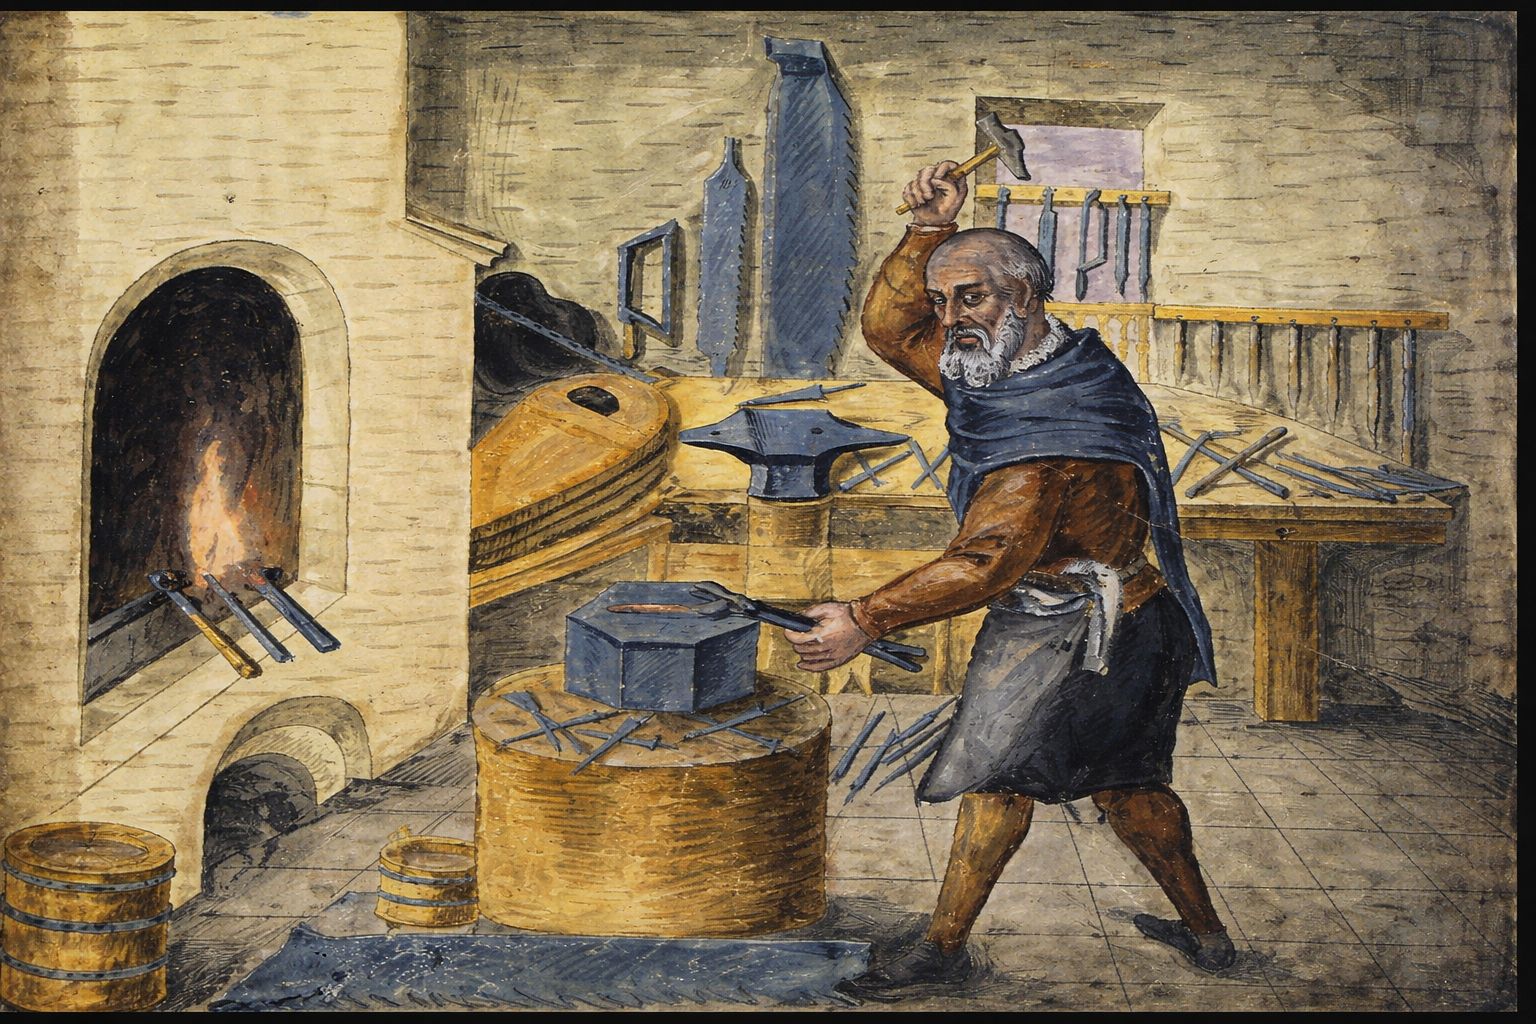
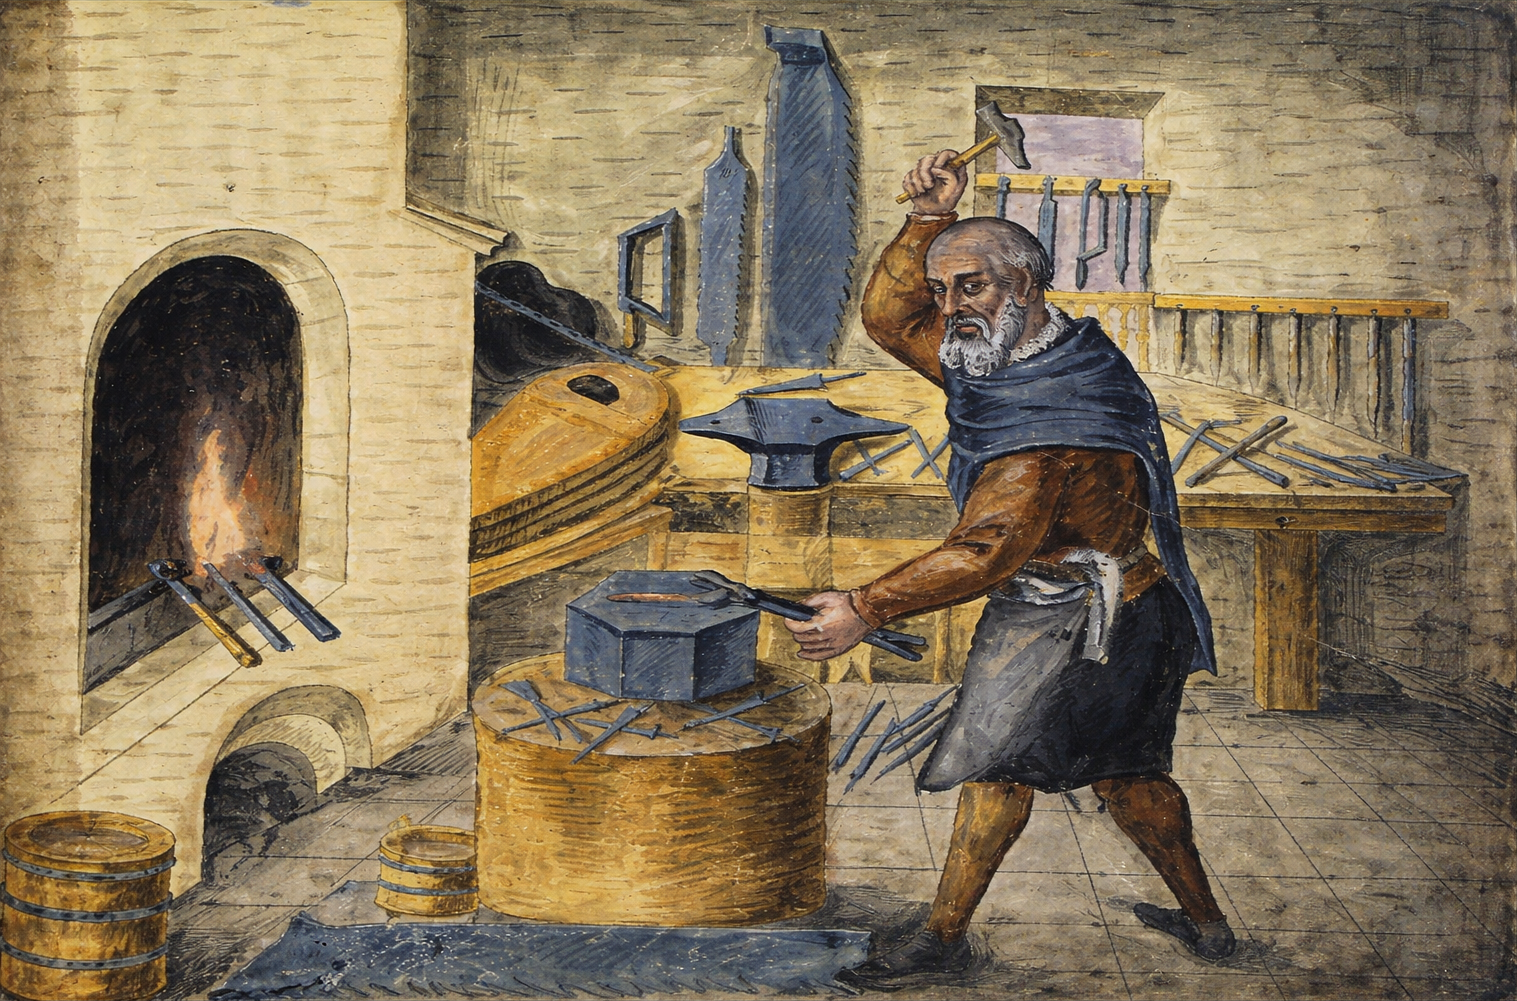
Minor changes to the settings background Minor changes to UI colors

diff --git a/src/ui/theme.py b/src/ui/theme.py
@@ -79,10 +79,10 @@ THEME_BUTTON_PRESSED_BG_COLOR: Color = (22, 22, 22, 0)
 THEME_BUTTON_TEXT_COLOR: Color = (220, 220, 220)
 # Hover text
 # Text color for hovered buttons; RGB tuple (0-255 per channel).
-THEME_BUTTON_HOVER_TEXT_COLOR: Color = (253, 210, 10)
+THEME_BUTTON_HOVER_TEXT_COLOR: Color = (205, 183, 82)
 # Pressed text
 # Text color for pressed buttons; RGB tuple (0-255 per channel).
-THEME_BUTTON_PRESSED_TEXT_COLOR: Color = (235, 164, 0)
+THEME_BUTTON_PRESSED_TEXT_COLOR: Color = (159, 141, 56)
 # Disabled state
 # Text color for disabled buttons; RGB tuple (0-255 per channel).
 THEME_BUTTON_TEXT_DISABLED_COLOR: Color = (130, 130, 130)
@@ -265,7 +265,7 @@ THEME_UI_ALPHA_BLUR_RADIUS: float = 5.0
 # blockiness, while higher values preserve more detail (0.1-1.0).
 THEME_UI_ALPHA_BLUR_DOWNSCALE_FACTOR: float = 0.35
 # Scene header text color; RGB tuple (0-255 per channel).
-THEME_SCENE_HEADER_TEXT_COLOR: Color = (253, 210, 10)
+THEME_SCENE_HEADER_TEXT_COLOR: Color = (205, 183, 82)
 # Main menu header background color; RGBA tuple (0-255 per channel, alpha 0-255).
 THEME_MAIN_MENU_HEADER_BG_COLOR: ColorA = (42, 42, 42, 0)
 # Main menu header background image filename; relative to settings.BACKGROUND_IMAGE_PATH.
@@ -285,7 +285,7 @@ THEME_MAIN_MENU_HEADER_TEXT_COLOR: Color = (223, 185, 84)
 # Primary light text for titles and labels; RGB tuple (0-255 per channel).
 THEME_TEXT_COLOR_LIGHT: Color = (242, 242, 242)
 # Section header highlight color (gold); RGB tuple (0-255 per channel).
-THEME_SECTION_HEADER_COLOR: Color = (253, 210, 10)
+THEME_SECTION_HEADER_COLOR: Color = (205, 183, 82)
 # Section divider color for help sections; RGBA tuple (0-255 per channel, alpha).
 THEME_SECTION_DIVIDER_COLOR: ColorA = (255, 255, 255, 40)
 # Subsection highlight color (light blue); RGB tuple (0-255 per channel).
